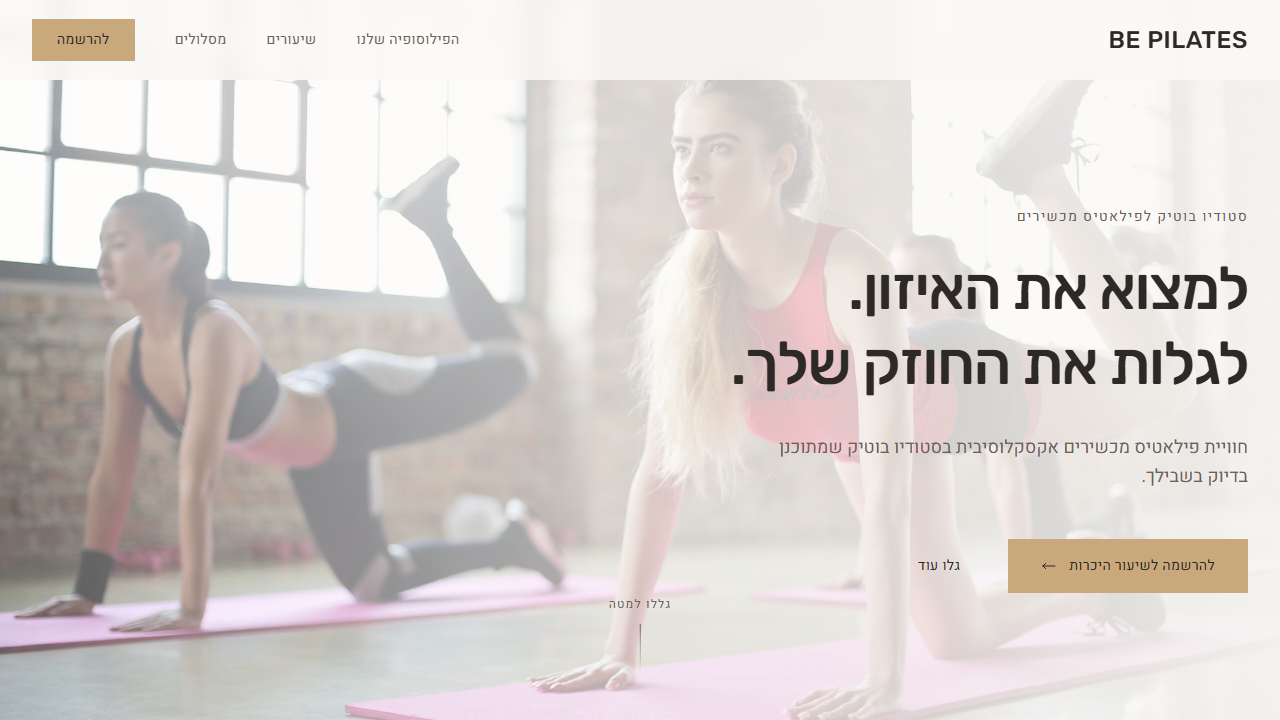
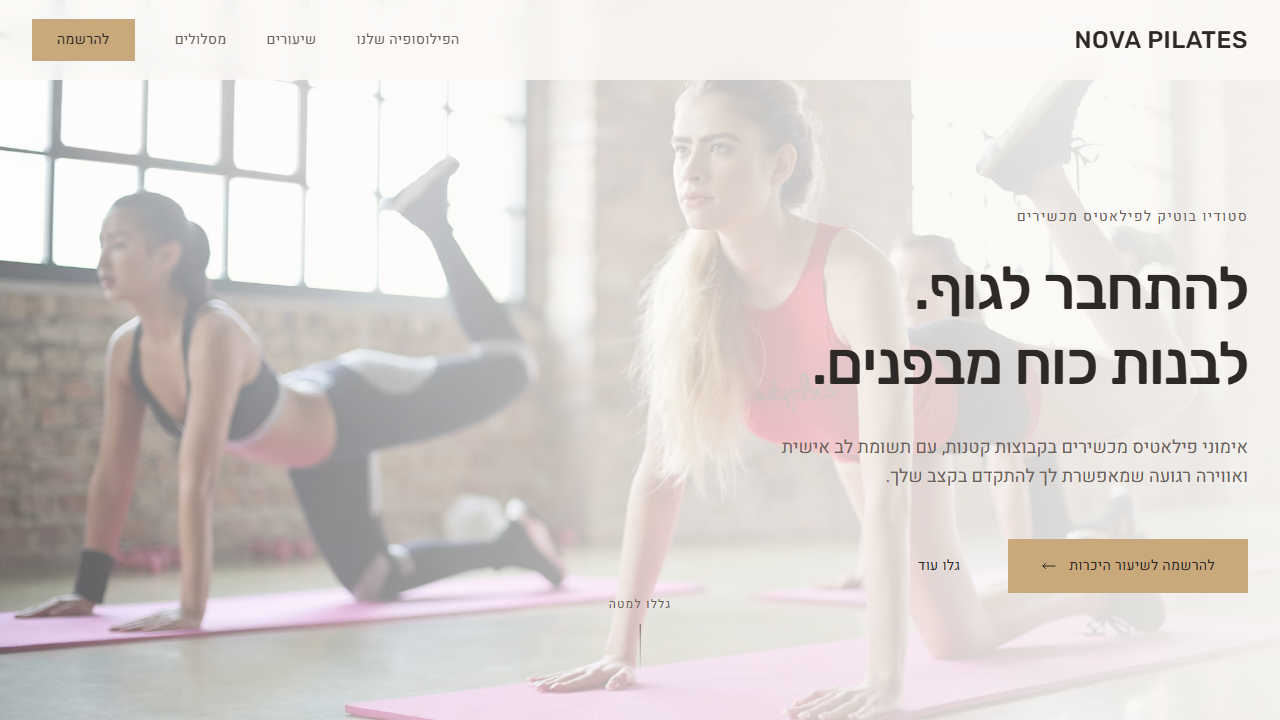
Update NOVA PILATES portfolio entry and add carousel navigation arrows.
Refresh the project preview and copy to match the live site, and add side arrows so visitors can browse portfolio projects manually.

diff --git a/components/portfolio-section.tsx b/components/portfolio-section.tsx
@@ -2,7 +2,7 @@
 
 import Image from "next/image"
 import { useCallback, useEffect, useRef, useState } from "react"
-import { ArrowLeft, ArrowRight } from "lucide-react"
+import { ArrowLeft, ArrowRight, ChevronLeft, ChevronRight } from "lucide-react"
 import { useLanguage } from "@/lib/i18n/language-context"
 import type { Project } from "@/lib/i18n/translations"
 
@@ -86,6 +86,17 @@ export function PortfolioSection() {
     setActive(index)
   }, [])
 
+  const goPrev = useCallback(() => {
+    setActive((prev) => (prev - 1 + projects.length) % projects.length)
+  }, [projects.length])
+
+  const goNext = useCallback(() => {
+    setActive((prev) => (prev + 1) % projects.length)
+  }, [projects.length])
+
+  const PrevIcon = locale === "he" ? ChevronRight : ChevronLeft
+  const NextIcon = locale === "he" ? ChevronLeft : ChevronRight
+
   useEffect(() => {
     isMountedRef.current = true
     return () => {
@@ -128,6 +139,24 @@ export function PortfolioSection() {
           onFocus={() => setPaused(true)}
           onBlur={() => setPaused(false)}
         >
+          <button
+            type="button"
+            onClick={goPrev}
+            aria-label={t.portfolio.prevProject}
+            className="absolute top-1/2 left-0 z-20 flex size-8 -translate-y-1/2 items-center justify-center rounded-full border border-stone-600/80 bg-stone-900/90 text-stone-400 backdrop-blur-sm transition-all hover:border-stone-400 hover:bg-stone-800 hover:text-stone-50 md:-left-4"
+          >
+            <PrevIcon className="size-4" />
+          </button>
+
+          <button
+            type="button"
+            onClick={goNext}
+            aria-label={t.portfolio.nextProject}
+            className="absolute top-1/2 right-0 z-20 flex size-8 -translate-y-1/2 items-center justify-center rounded-full border border-stone-600/80 bg-stone-900/90 text-stone-400 backdrop-blur-sm transition-all hover:border-stone-400 hover:bg-stone-800 hover:text-stone-50 md:-right-4"
+          >
+            <NextIcon className="size-4" />
+          </button>
+
           {projects.map((project, index) => (
             <ProjectSlide
               key={project.title}

diff --git a/lib/i18n/translations.ts b/lib/i18n/translations.ts
@@ -30,7 +30,7 @@ export type ValuePoint = {
 
 const sharedProjects: Omit<Project, "description">[] = [
   {
-    title: "BE PILATES studio",
+    title: "NOVA PILATES",
     url: "https://pilates1.vercel.app/",
     image: "/images/portfolio/pilates.png",
   },
@@ -91,11 +91,13 @@ export const translations = {
       viewLive: "צפייה באתר החי",
       previewAlt: (title: string) => `תצוגה מקדימה של ${title}`,
       goToProject: (title: string) => `מעבר לפרויקט ${title}`,
+      prevProject: "פרויקט קודם",
+      nextProject: "פרויקט הבא",
       projects: [
         {
           ...sharedProjects[0],
           description:
-            "דף נחיתה בוטיק ויוקרתי לסטודיו פילאטיס, עם גלילה חלקה, ביקורות מתוך Google Maps והמרה דרך טופס.",
+            "דף נחיתה בוטיק לסטודיו פילאטיס מכשירים — קבוצות קטנות, תשומת לב אישית, ביקורות לקוחות והמרה דרך טופס הרשמה.",
         },
         {
           ...sharedProjects[1],
@@ -273,11 +275,13 @@ export const translations = {
       viewLive: "View live site",
       previewAlt: (title: string) => `Preview of ${title}`,
       goToProject: (title: string) => `Go to project ${title}`,
+      prevProject: "Previous project",
+      nextProject: "Next project",
       projects: [
         {
           ...sharedProjects[0],
           description:
-            "A boutique, premium landing page for a Pilates studio — smooth scrolling, Google Maps reviews, and form-driven conversion.",
+            "A boutique landing page for a Pilates equipment studio — small groups, personal attention, client testimonials, and form-driven conversion.",
         },
         {
           ...sharedProjects[1],